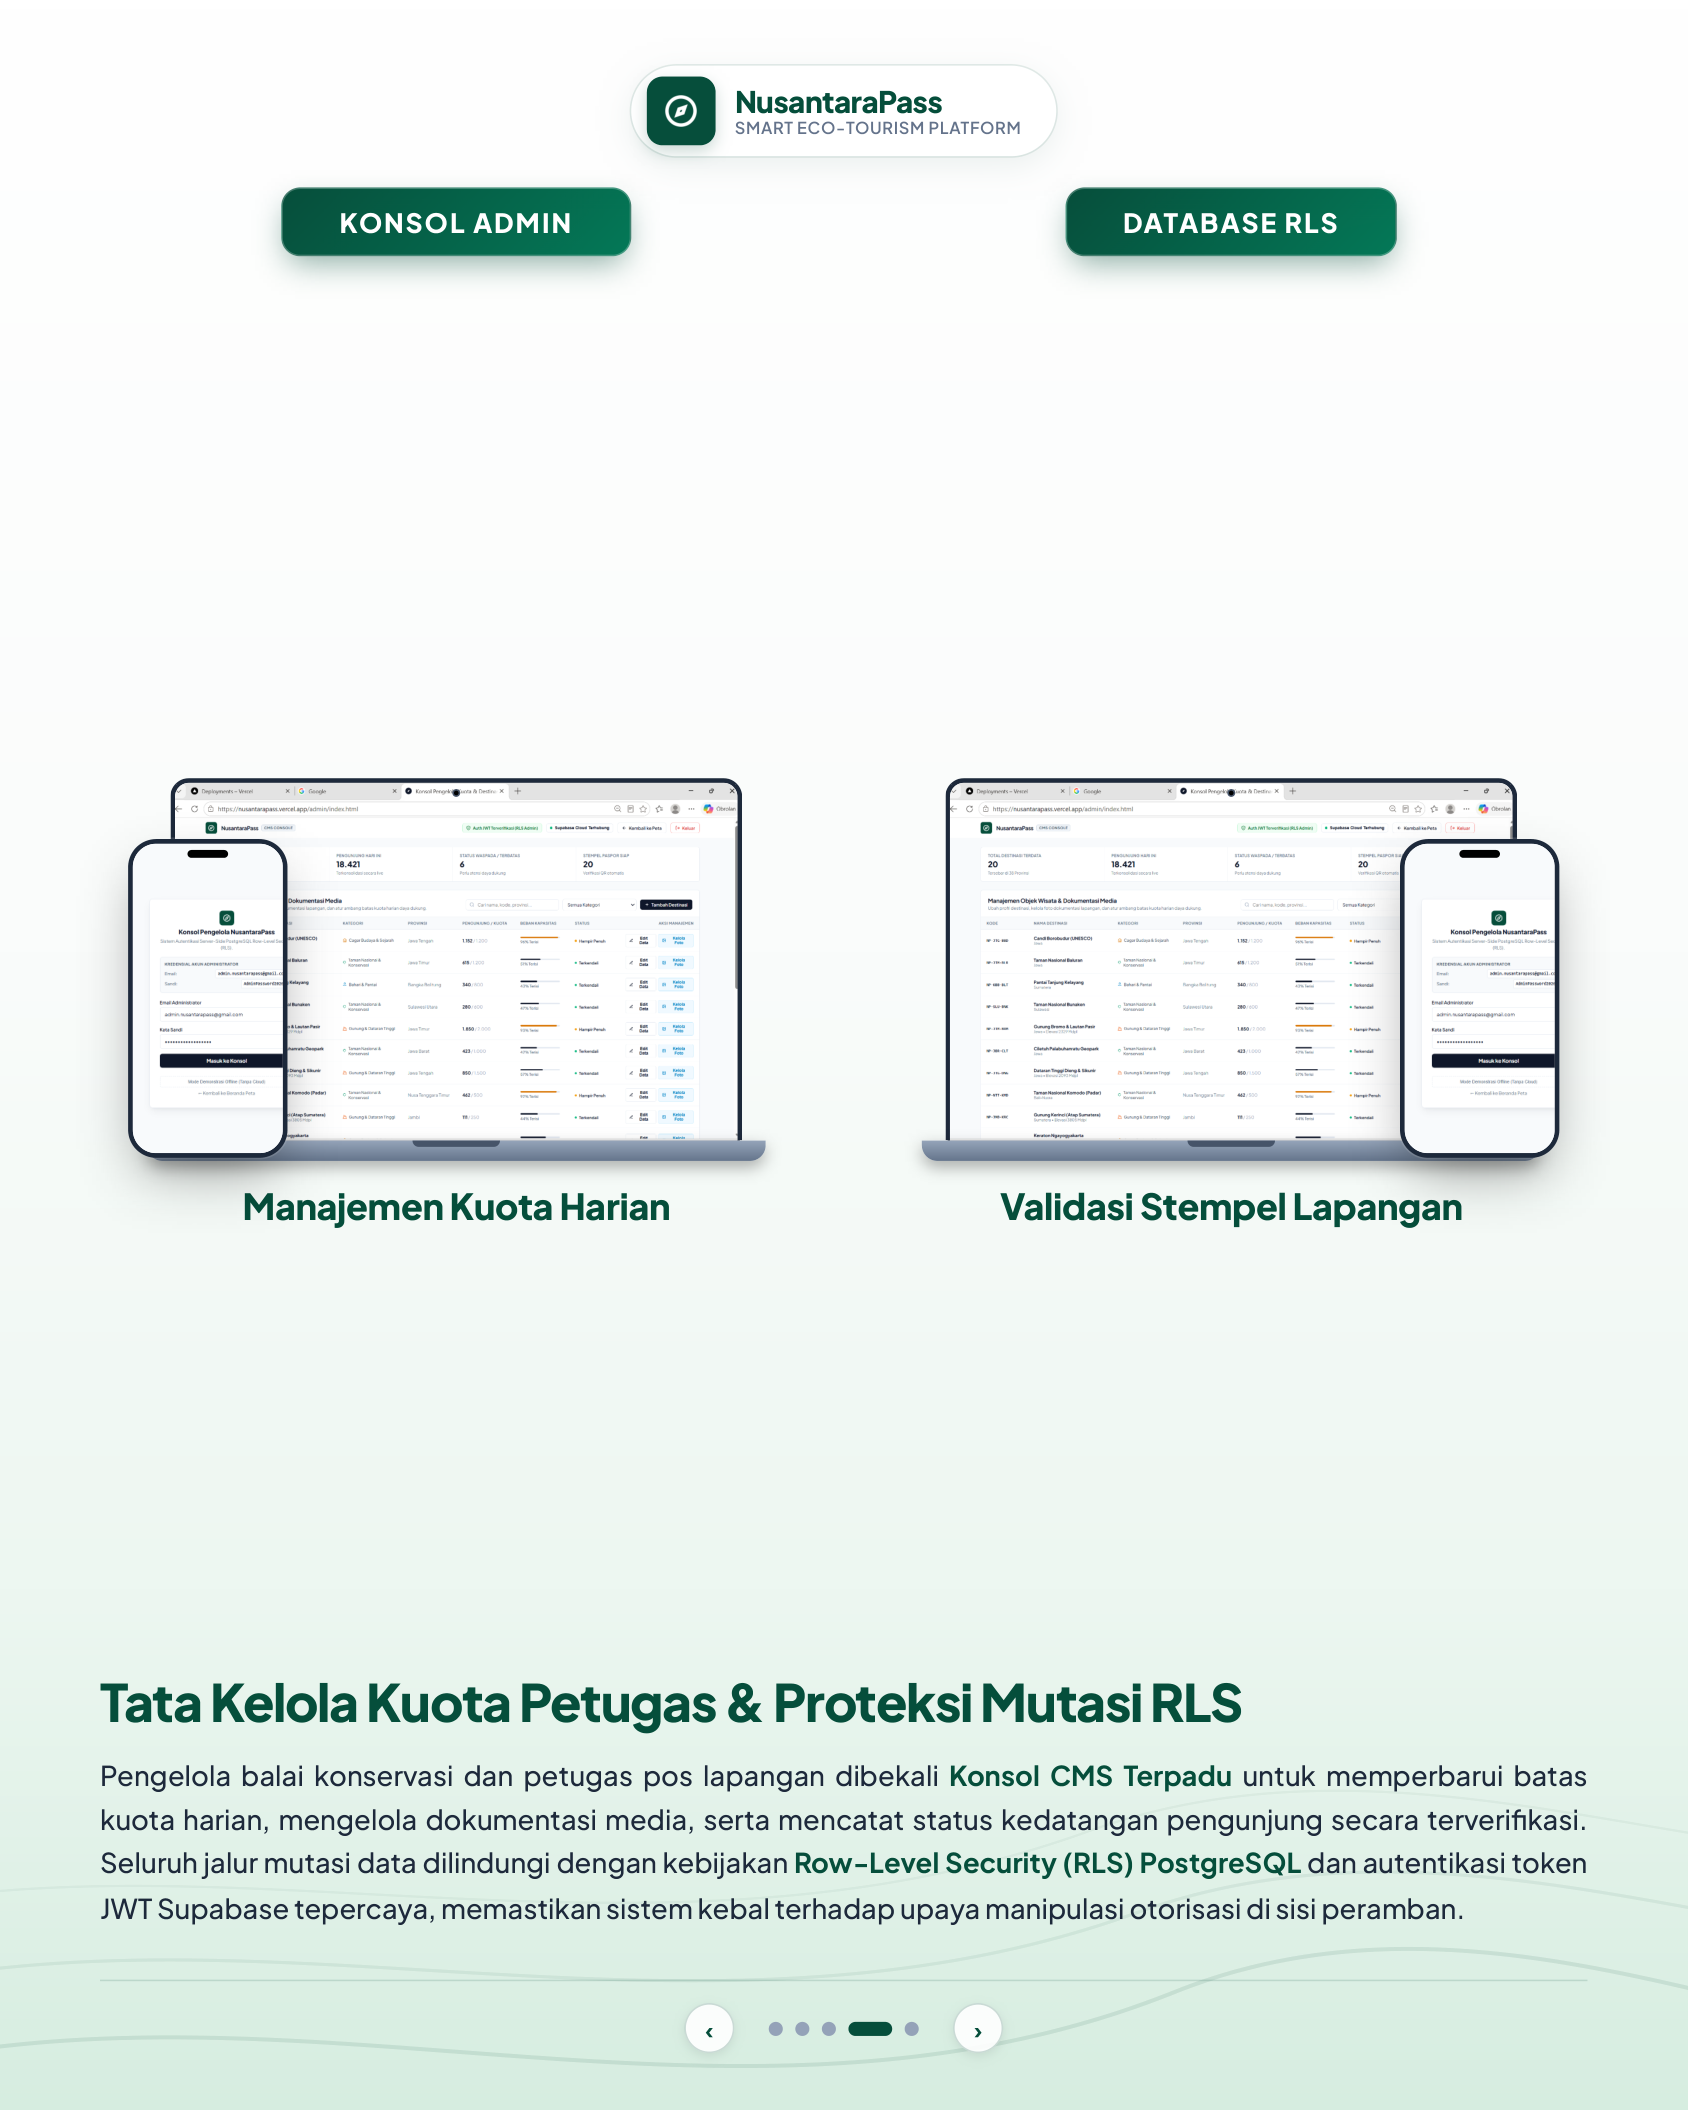
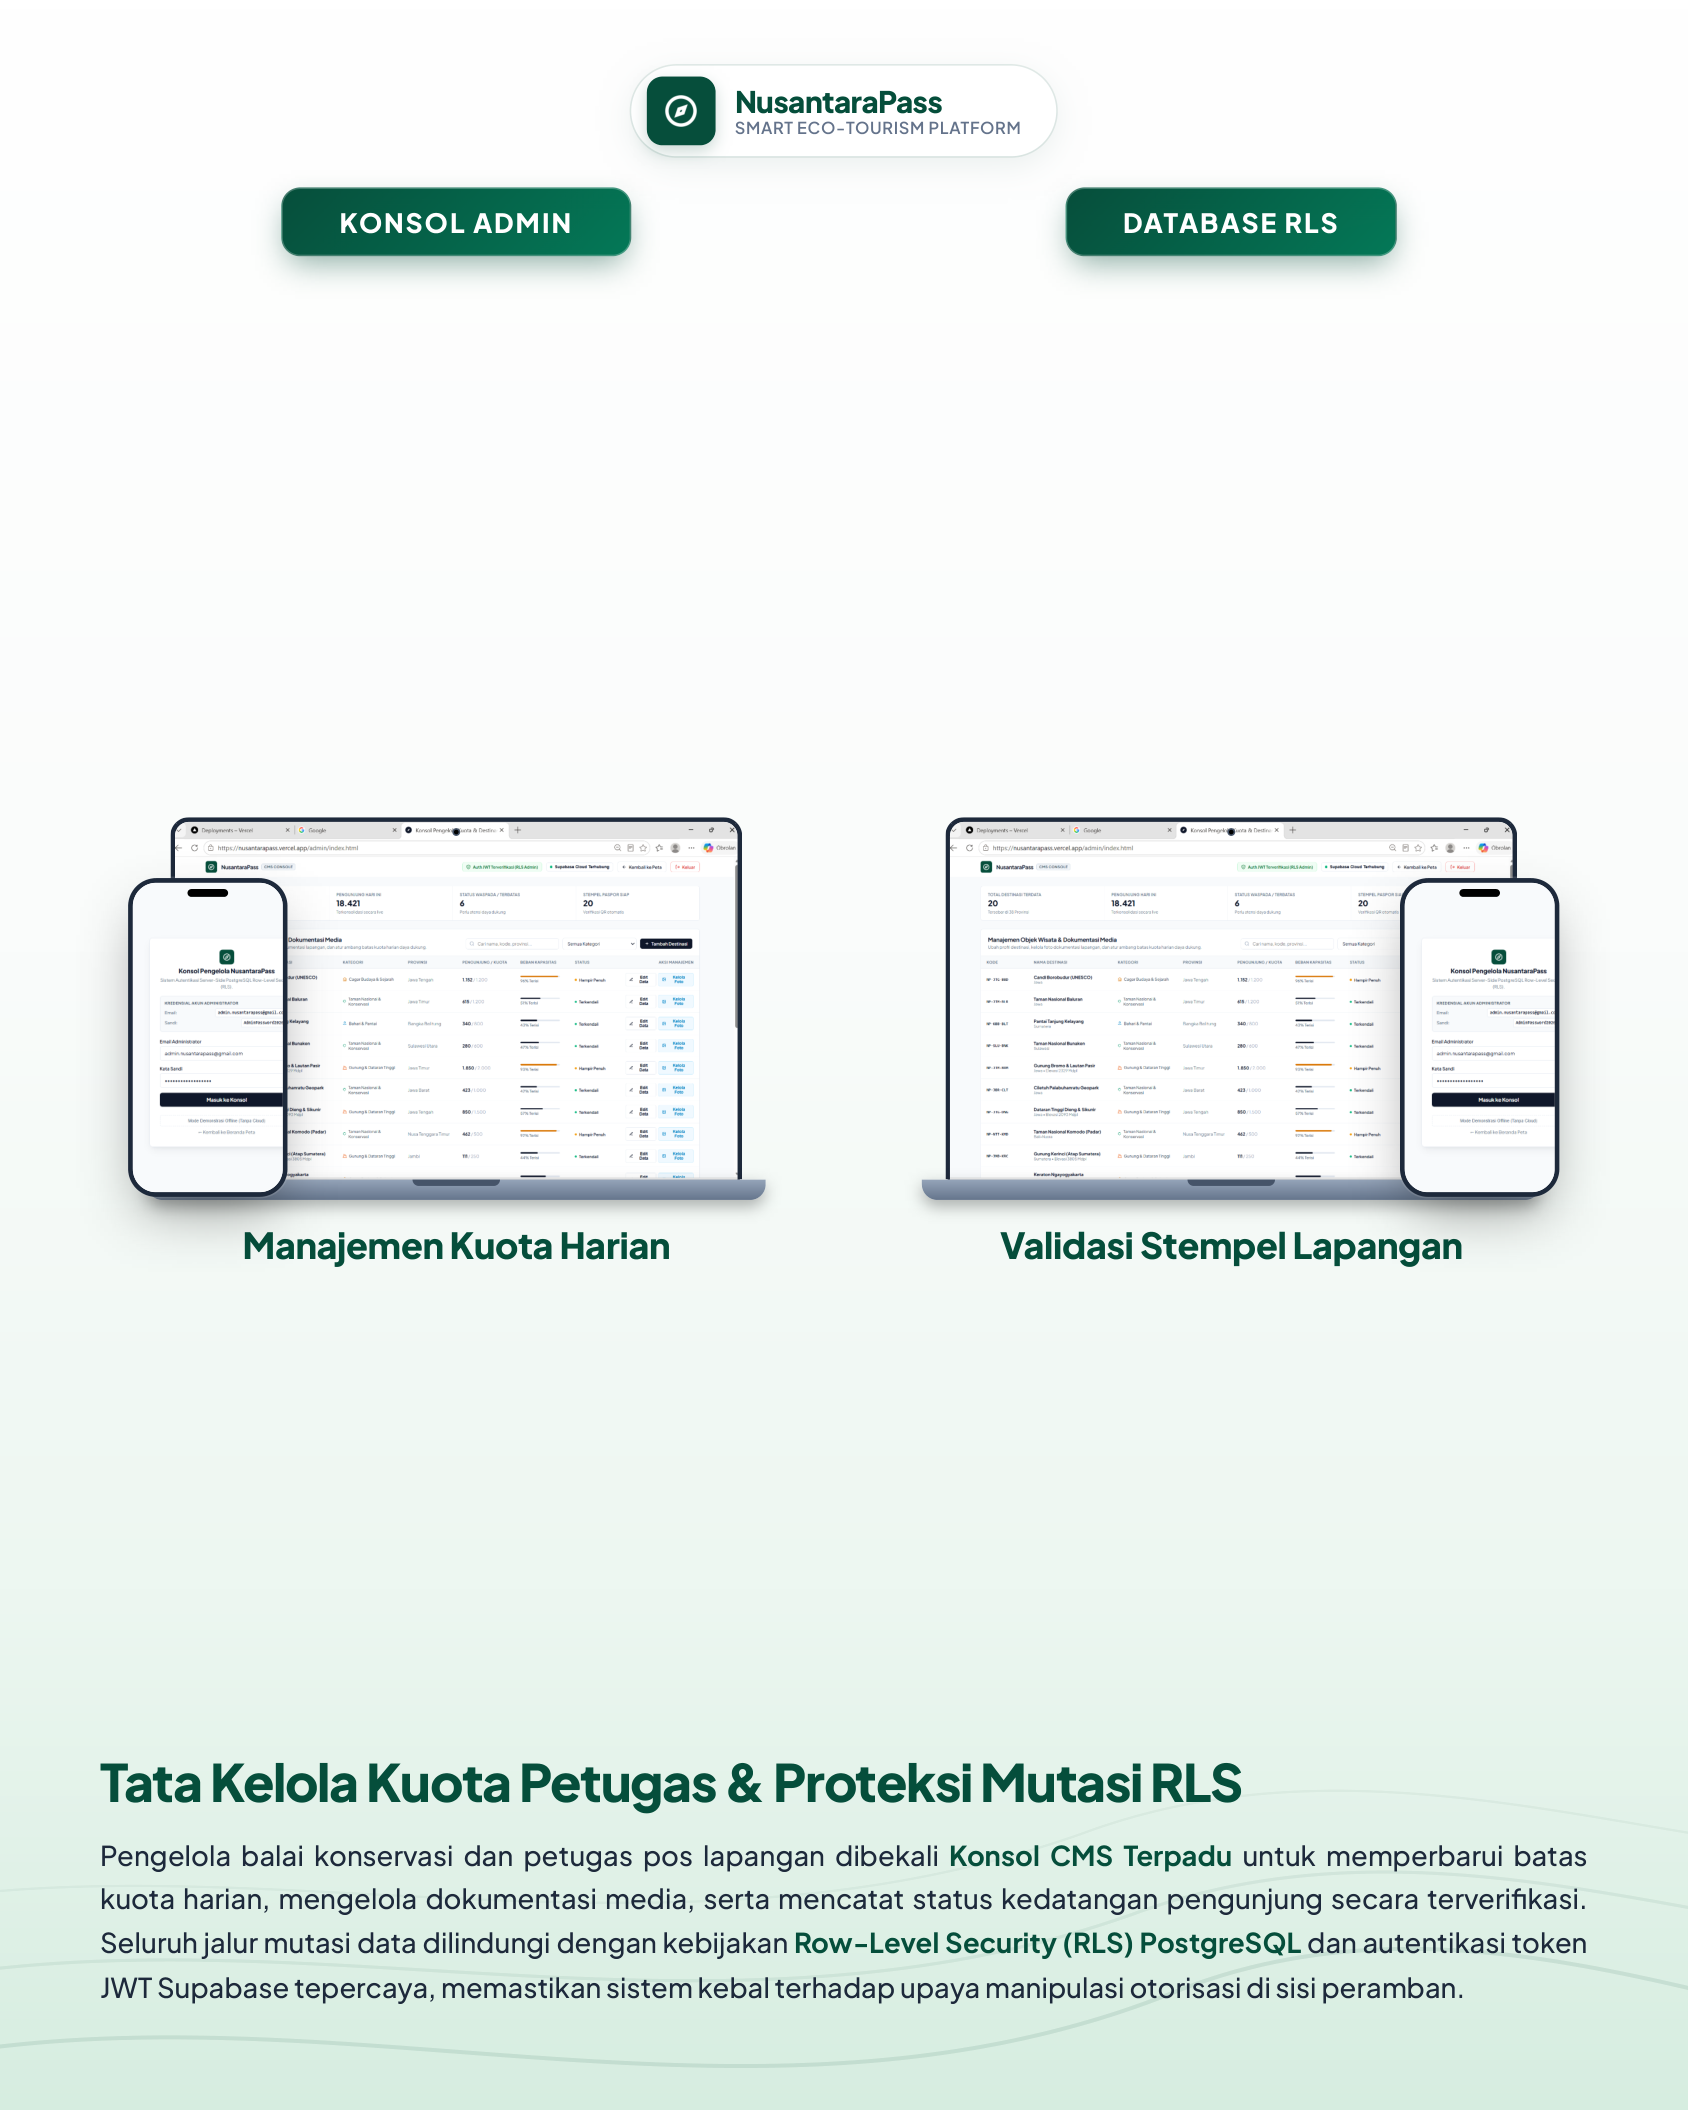
fix(pamflet): hapus elemen titik navigasi carousel buatan di foto dan integrasikan tangkapan layar asli

Changed region(s): [[0.0616, 0.8006, 0.955, 0.9853], [0.5237, 0.3695, 0.9242, 0.6158], [0.0616, 0.3695, 0.4621, 0.6158]]

diff --git a/pamflet/index.html b/pamflet/index.html
@@ -486,51 +486,9 @@
       font-weight: 700;
     }
 
-    /* CAROUSEL PAGINATION & ARROWS */
-    .carousel-meta {
-      display: flex;
-      align-items: center;
-      justify-content: center;
-      gap: 22px;
-      margin-top: 18px;
-      padding-top: 14px;
-      border-top: 1px solid rgba(6, 78, 59, 0.15);
-    }
-
-    .nav-arrow {
-      width: 32px;
-      height: 32px;
-      border-radius: 50%;
-      background: rgba(255, 255, 255, 0.9);
-      border: 1px solid rgba(6, 78, 59, 0.2);
-      display: flex;
-      align-items: center;
-      justify-content: center;
-      color: #064E3B;
-      font-size: 15px;
-      font-weight: 700;
-      box-shadow: 0 2px 6px rgba(0, 0, 0, 0.08);
-    }
-
-    .dots-indicator {
-      display: flex;
-      align-items: center;
-      gap: 8px;
-    }
-
-    .dot {
-      width: 9px;
-      height: 9px;
-      border-radius: 50%;
-      background: #94A3B8;
-      transition: all 0.3s ease;
-    }
-
-    .dot.active {
-      width: 28px;
-      height: 9px;
-      border-radius: 6px;
-      background: #064E3B;
+    /* Bottom safe area for Instagram native app overlay & pagination dots */
+    .slide-footer {
+      padding-bottom: 28px;
     }
 
     /* SLIDE 5: Metrics chips */
@@ -678,18 +636,7 @@
         <p class="slide-description">
           Wisatawan dapat memanfaatkan <strong>Peta WebGIS Interaktif 38 Provinsi</strong> untuk memantau beban kunjungan di seluruh cagar alam prioritas Indonesia secara aktual. Dilengkapi sistem zonasi kuota otomatis berbasis daya dukung lingkungan <em>(carrying capacity)</em>—dengan indikator visual <strong>Aman (&lt;60%)</strong>, <strong>Waspada (60–84%)</strong>, dan <strong>Kritis (&ge;85%)</strong>—sistem memberikan peringatan dini guna mencegah penumpukan massa <em>(overtourism)</em> di kawasan konservasi rentan.
         </p>
-
-        <div class="carousel-meta">
-          <div class="nav-arrow">‹</div>
-          <div class="dots-indicator">
-            <div class="dot active"></div>
-            <div class="dot"></div>
-            <div class="dot"></div>
-            <div class="dot"></div>
-            <div class="dot"></div>
-          </div>
-          <div class="nav-arrow">›</div>
-        </div>
+</div>
       </div>
     </div>
 
@@ -736,13 +683,13 @@
             <div class="grid-label">PETA 38 Provinsi</div>
           </div>
 
-          <!-- Item 2: Indikator Kapasitas -->
+          <!-- Item 2: Katalog Eksplorasi Grid (NEW REAL SCREENSHOT) -->
           <div class="grid-item">
             <div class="grid-mockup-wrapper">
               <div class="grid-laptop">
                 <div class="laptop-lid">
                   <div class="laptop-screen">
-                    <img src="img/desktop-detail.png" alt="Zonasi Kuota">
+                    <img src="img/real-katalog-grid.png" alt="Katalog Destinasi">
                   </div>
                 </div>
                 <div class="laptop-base"><div class="laptop-notch"></div></div>
@@ -751,16 +698,16 @@
                 <div class="phone-screen"><img src="img/mobile-detail.png" alt="Mobile"></div>
               </div>
             </div>
-            <div class="grid-label">ZONASI Warna Kuota</div>
+            <div class="grid-label">KATALOG Destinasi</div>
           </div>
 
-          <!-- Item 3: Multi-Layer Maps -->
+          <!-- Item 3: Galeri Dokumentasi Foto (NEW REAL SCREENSHOT) -->
           <div class="grid-item">
             <div class="grid-mockup-wrapper">
               <div class="grid-laptop">
                 <div class="laptop-lid">
                   <div class="laptop-screen">
-                    <img src="img/desktop-map.png" alt="Multi-layer Maps">
+                    <img src="img/real-galeri-foto.png" alt="Galeri Dokumentasi Foto Cagar Budaya">
                   </div>
                 </div>
                 <div class="laptop-base"><div class="laptop-notch"></div></div>
@@ -769,7 +716,7 @@
                 <div class="phone-screen"><img src="img/mobile-map.png" alt="Mobile"></div>
               </div>
             </div>
-            <div class="grid-label">MULTI-LAYER Maps</div>
+            <div class="grid-label">GALERI Dokumentasi</div>
           </div>
 
           <!-- Item 4: Admin CMS Konsol -->
@@ -797,18 +744,7 @@
         <p class="slide-description">
           Tampilan <strong>Beranda (Dashboard WebGIS)</strong> menyajikan visualisasi data persebaran objek wisata konservasi dengan klaster penanda 3D adaptif dan filter regional kepulauan (Jawa, Sumatera, Bali-Nusra, Sulawesi, Papua). Sistem menghitung persentase keterisian kawasan secara matematis langsung dari basis data cloud PostgreSQL Supabase, menjamin transparansi informasi tanpa jeda pemuatan bagi publik.
         </p>
-
-        <div class="carousel-meta">
-          <div class="nav-arrow">‹</div>
-          <div class="dots-indicator">
-            <div class="dot"></div>
-            <div class="dot active"></div>
-            <div class="dot"></div>
-            <div class="dot"></div>
-            <div class="dot"></div>
-          </div>
-          <div class="nav-arrow">›</div>
-        </div>
+</div>
       </div>
     </div>
 
@@ -830,21 +766,21 @@
           </div>
         </div>
         <div class="dual-pill-header">
-          <div class="pill-slot"><div class="pill-btn">PASPOR DIGITAL</div></div>
+          <div class="pill-slot"><div class="pill-btn">E-TIKET RESMI</div></div>
           <div class="pill-slot"><div class="pill-btn">BUFFER REDIRECT</div></div>
         </div>
       </div>
 
       <div class="slide-body">
         <div class="dual-showcase">
-          <!-- Left Mockup: Penerbitan Paspor -->
+          <!-- Left Mockup: Penerbitan E-Tiket QR Resmi -->
           <div class="showcase-card">
             <div class="device-combo">
               <div class="mockup-laptop">
                 <div class="laptop-lid">
                   <div class="laptop-camera"></div>
                   <div class="laptop-screen">
-                    <img src="img/desktop-detail.png" alt="Penerbitan Paspor Digital">
+                    <img src="img/real-e-tiket-qr.png" alt="Penerbitan E-Tiket QR Resmi">
                   </div>
                 </div>
                 <div class="laptop-base"><div class="laptop-notch"></div></div>
@@ -852,11 +788,11 @@
               <div class="mockup-phone">
                 <div class="phone-notch"></div>
                 <div class="phone-screen">
-                  <img src="img/mobile-detail.png" alt="Mobile Tiket QR">
+                  <img src="img/mobile-e-tiket-dialog.png" alt="Mobile Tiket QR">
                 </div>
               </div>
             </div>
-            <div class="card-label">Penerbitan Digital Pass</div>
+            <div class="card-label">E-Tiket &amp; Paspor QR</div>
           </div>
 
           <!-- Right Mockup: Rekomendasi Penyangga -->
@@ -884,22 +820,11 @@
       </div>
 
       <div class="slide-footer">
-        <h2 class="slide-main-title">Mitigasi Overtourism &amp; Paspor Ramah Lingkungan</h2>
+        <h2 class="slide-main-title">Pemesanan E-Tiket Resmi &amp; Buffer Redirect</h2>
         <p class="slide-description">
-          Fitur <strong>Buffer Redirect</strong> berfungsi sebagai instrumen mitigasi cerdas yang secara otomatis merekomendasikan desa wisata penyangga di sekitar destinasi utama saat kuota kritis tercapai (seperti Desa Wanurejo saat Candi Borobudur penuh 98%). Wisatawan memperoleh <strong>Digital Eco-Pass</strong> instan berformat QR Code dengan verifikasi tanda tangan Web Crypto SHA-256 yang aman, sah, dan dapat diakses tanpa kewajiban login rumit <em>(zero-friction UX)</em>.
+          Sistem menghadirkan <strong>Pemesanan E-Tiket Resmi</strong> instan berformat QR Code unik yang dapat diunduh langsung dalam format PDF dengan validasi kriptografis Web Crypto SHA-256 tanpa perlu login rumit <em>(zero-friction UX)</em>. Saat kuota destinasi prioritas penuh, fitur <strong>Buffer Redirect</strong> secara otomatis merekomendasikan desa wisata penyangga di sekitarnya (seperti Desa Wanurejo saat Borobudur penuh 98%) guna menjaga keutuhan ekosistem cagar alam.
         </p>
-
-        <div class="carousel-meta">
-          <div class="nav-arrow">‹</div>
-          <div class="dots-indicator">
-            <div class="dot"></div>
-            <div class="dot"></div>
-            <div class="dot active"></div>
-            <div class="dot"></div>
-            <div class="dot"></div>
-          </div>
-          <div class="nav-arrow">›</div>
-        </div>
+</div>
       </div>
     </div>
 
@@ -979,18 +904,7 @@
         <p class="slide-description">
           Pengelola balai konservasi dan petugas pos lapangan dibekali <strong>Konsol CMS Terpadu</strong> untuk memperbarui batas kuota harian, mengelola dokumentasi media, serta mencatat status kedatangan pengunjung secara terverifikasi. Seluruh jalur mutasi data dilindungi dengan kebijakan <strong>Row-Level Security (RLS) PostgreSQL</strong> dan autentikasi token JWT Supabase tepercaya, memastikan sistem kebal terhadap upaya manipulasi otorisasi di sisi peramban.
         </p>
-
-        <div class="carousel-meta">
-          <div class="nav-arrow">‹</div>
-          <div class="dots-indicator">
-            <div class="dot"></div>
-            <div class="dot"></div>
-            <div class="dot"></div>
-            <div class="dot active"></div>
-            <div class="dot"></div>
-          </div>
-          <div class="nav-arrow">›</div>
-        </div>
+</div>
       </div>
     </div>
 
@@ -1026,7 +940,7 @@
                 <div class="laptop-lid">
                   <div class="laptop-camera"></div>
                   <div class="laptop-screen">
-                    <img src="img/desktop-api.png" alt="Developer REST API Sandbox">
+                    <img src="img/real-api-sandbox.png" alt="Developer REST API Sandbox">
                   </div>
                 </div>
                 <div class="laptop-base"><div class="laptop-notch"></div></div>
@@ -1090,18 +1004,7 @@
             <span class="chip-val">piantsa</span>
           </div>
         </div>
-
-        <div class="carousel-meta">
-          <div class="nav-arrow">‹</div>
-          <div class="dots-indicator">
-            <div class="dot"></div>
-            <div class="dot"></div>
-            <div class="dot"></div>
-            <div class="dot"></div>
-            <div class="dot active"></div>
-          </div>
-          <div class="nav-arrow">›</div>
-        </div>
+</div>
       </div>
     </div>
 

diff --git a/scripts/generate_pamflet_images.py b/scripts/generate_pamflet_images.py
@@ -1,4 +1,4 @@
-import os, subprocess, shutil, pymupdf
+import os, subprocess, pymupdf
 
 root = r'C:\Users\sufya\.gemini\antigravity\scratch\nusantarapass'
 pamflet_html = os.path.join(root, 'pamflet', 'index.html').replace('\\', '/')
@@ -35,7 +35,7 @@ if os.path.exists(out_pdf):
     doc = pymupdf.open(out_pdf)
     print(f'PDF generated with {len(doc)} pages.')
     for i, page in enumerate(doc):
-        # Render page to PNG at 150 DPI (super crisp high-resolution 1275x1650 / 4:5 ratio)
+        # Render page to PNG at 150 DPI
         pix = page.get_pixmap(dpi=150)
         img_filename = slide_names[i] if i < len(slide_names) else f'slide-{i+1}.png'
         
@@ -45,7 +45,11 @@ if os.path.exists(out_pdf):
         
         pix.save(path1)
         pix.save(path_num)
-        shutil.copyfile(path1, path_docs)
+        try:
+            pix.save(path_docs)
+        except Exception as e:
+            print(f'Warning saving to docs/pamflet: {e}')
+            
         print(f'Rendered Slide {i+1}: {img_filename} ({pix.width}x{pix.height})')
         
     print('ALL SLIDES SUCCESSFULLY EXPORTED TO:')
